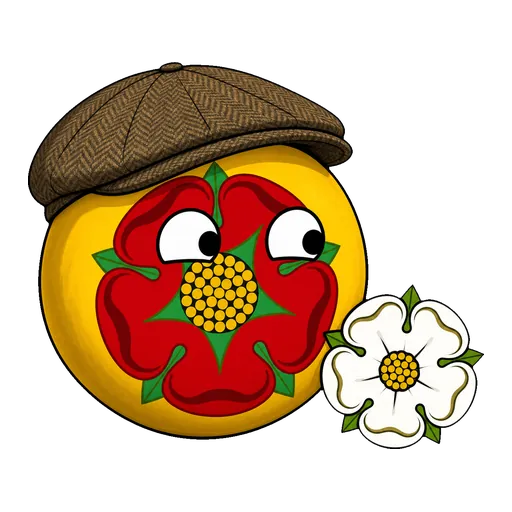
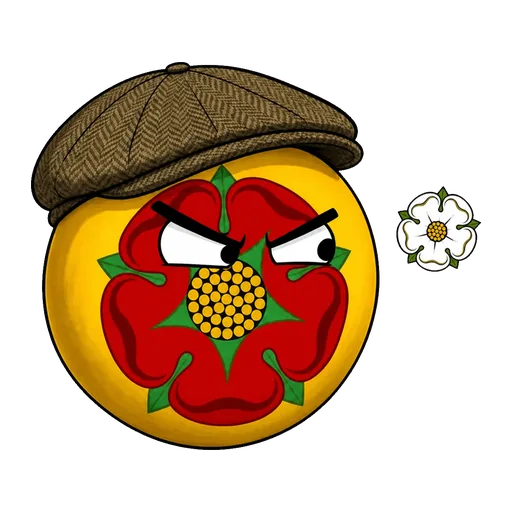
Refine county rivalry expressions

diff --git a/data/counties/ART_PROMPTS.md b/data/counties/ART_PROMPTS.md
@@ -78,7 +78,7 @@ Tiers do not affect the art, and the tier column below may lag - the roster in `
 | data/counties/westmorland.webp | Westmorland | common | registered flag (research; apple tree and bars) | cheerfully soggy: hiking boots, folded map, a tiny personal rain cloud drizzling on it |
 | data/counties/wiltshire.webp | Wiltshire | uncommon | Green and white horizontal stripes, great bustard bird at centre (verify) | mysterious hooded-brow stare, standing among a few miniature trilithon stones, a great bustard perched on top |
 | data/counties/worcestershire.webp | Worcestershire | uncommon | registered flag (research; black pears) | mildly apologetic eyes, a small unlabelled brown sauce bottle held out like an offering, a black pear |
-| data/counties/yorkshire.webp | Yorkshire | legendary | Sky blue, one large white rose of York | supremely content closed eyes, flat cap, steaming mug of tea, a whippet curled at its base |
+| data/counties/yorkshire.webp | Yorkshire | legendary | Sky blue, one large white rose of York | flat cap, steaming mug of tea and a whippet curled at its base; rivalry glare: suspiciously eyeing a small red Lancashire rose beside it |
 
 ### Wales (13)
 
